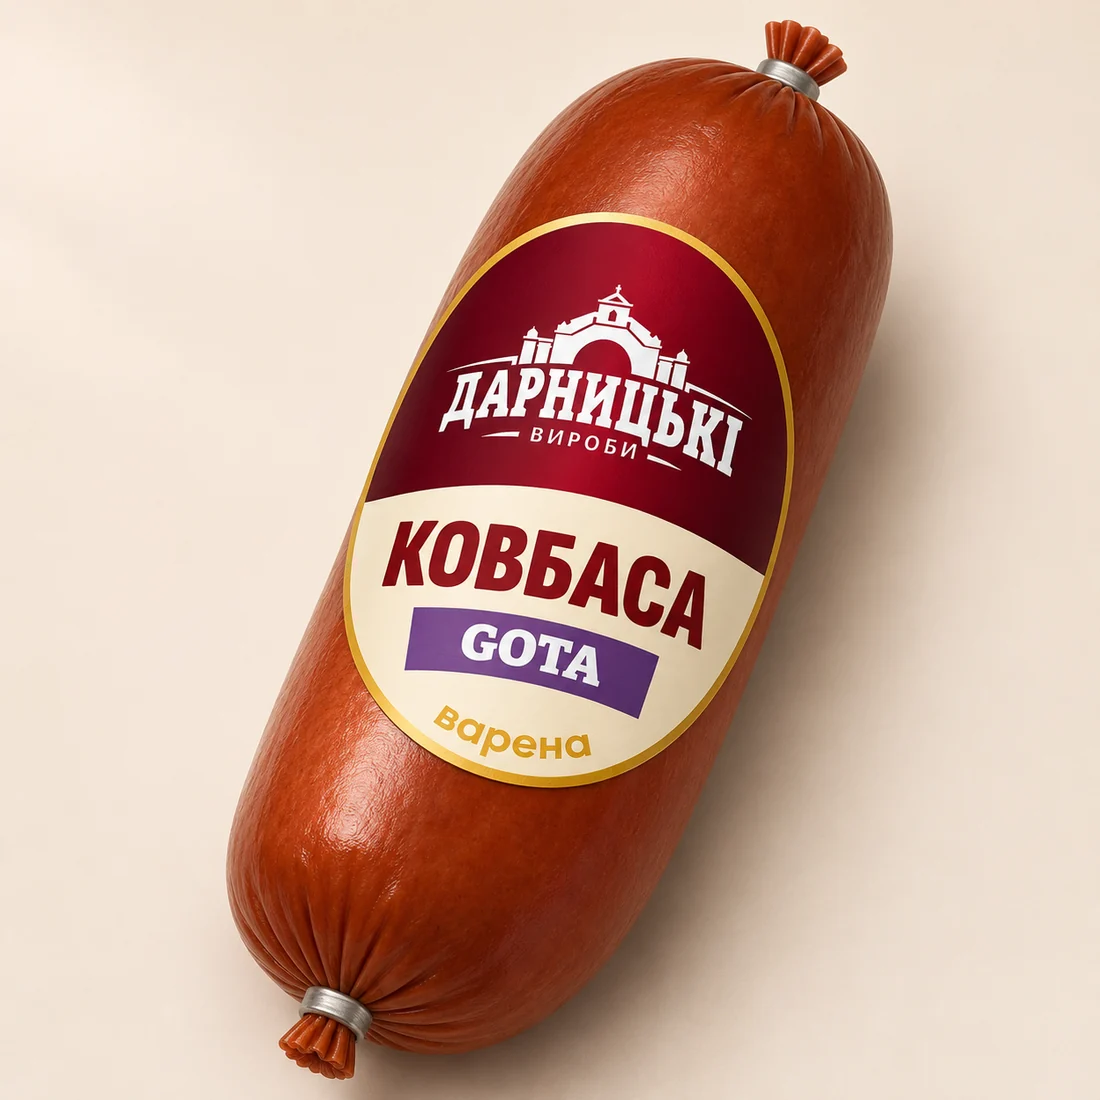
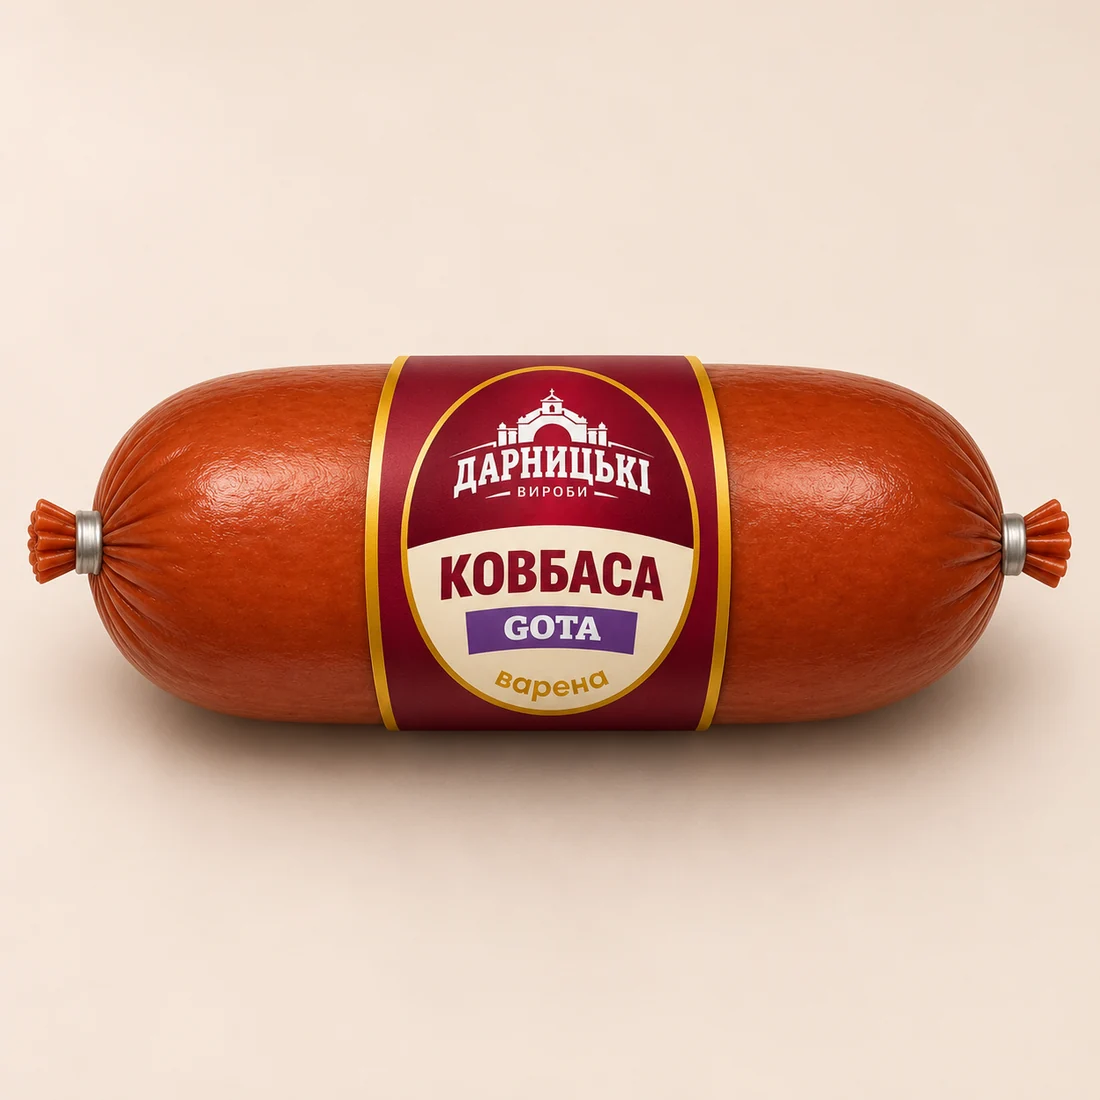
Wrap sausage labels around the girth in packaging and serving images

diff --git a/js/products.js b/js/products.js
@@ -396,7 +396,7 @@
     picture.className = "product-card__image";
     const servingImage = document.createElement("img");
     servingImage.className = "serving-art";
-    servingImage.src = new URL(`assets/products/serving/${product.id}.webp`, siteRoot).href;
+    servingImage.src = new URL(`assets/products/serving/${product.id}.webp?v=wrap-2`, siteRoot).href;
     servingImage.alt = "";
     servingImage.loading = "lazy";
     servingImage.decoding = "async";
@@ -412,7 +412,7 @@
     const servingButton = dualText("button", "view-serving", "На столі", "Na stole");
     const packButton = dualText("button", "view-pack", "У пакованні", "W opakowaniu");
     const setView = showPack => {
-      if (showPack && !pack.hasAttribute("src")) pack.src = new URL(`assets/products/packs/${product.id}.webp`, siteRoot).href;
+      if (showPack && !pack.hasAttribute("src")) pack.src = new URL(`assets/products/packs/${product.id}.webp?v=wrap-2`, siteRoot).href;
       card.classList.toggle("shows-pack", showPack);
       servingButton.setAttribute("aria-pressed", String(!showPack));
       packButton.setAttribute("aria-pressed", String(showPack));

diff --git a/pl/index.html b/pl/index.html
@@ -56,7 +56,7 @@
   </script>
   <script defer src="../js/i18n.js?v=store-journey-1"></script>
   <script defer src="../js/analytics.js?v=store-journey-1"></script>
-  <script defer src="../js/products.js?v=shelf-1"></script>
+  <script defer src="../js/products.js?v=wrap-2"></script>
   <script defer src="../js/stores.js?v=store-journey-1"></script>
   <script defer src="../js/scroll-motion.js?v=store-journey-1"></script>
   <script defer src="../js/main.js?v=store-journey-1"></script>

diff --git a/index.html b/index.html
@@ -56,7 +56,7 @@
   </script>
   <script defer src="js/i18n.js?v=store-journey-1"></script>
   <script defer src="js/analytics.js?v=store-journey-1"></script>
-  <script defer src="js/products.js?v=shelf-1"></script>
+  <script defer src="js/products.js?v=wrap-2"></script>
   <script defer src="js/stores.js?v=store-journey-1"></script>
   <script defer src="js/scroll-motion.js?v=store-journey-1"></script>
   <script defer src="js/main.js?v=store-journey-1"></script>

diff --git a/IMAGE-PROMPTS.md b/IMAGE-PROMPTS.md
@@ -28,7 +28,7 @@ undefined
 - **doktorska** — ДОКТОРСЬКА. one twine-tied chub from photo behind a fan of smooth pink slices, crusty rye, a glossy mustard swoosh, cherry-red enamel rim, bone white table
 - **studentska** — СТУДЕНТСЬКА. street picnic poppyseed roll on crinkled parchment, thick cooked sausage slices visible, pickle coins, a swipe of mustard, bold tomato-red tabletop, chub behind
 - **gota** — GOTA. Gota cooked sausage in elegant thin overlapping slices on a dark plum ceramic plate, purple onion rings, rye crisp, parsley leaf, slant of light
-- **doktorska-premium** — ДОКТОРСЬКА ПРЕМІУМ. one vacuum-packed half sausage with round face label as in source, thin folded pale pink slices on buttered baguette, cornichons, pale sage table
+- **doktorska-premium** — ДОКТОРСЬКА ПРЕМІУМ. a whole sausage in side view with the Premium emblem on its central wraparound band, thin folded pale pink slices on buttered baguette, cornichons, pale sage table
 - **doktorska-extra** — ДОКТОРСЬКА ЕКСТРА. hot skillet toasted sandwich cut on diagonal showing several generous layers of smooth cooked pink sausage, melting cheese, a little grilled tomato, turquoise plate
 - **uszka-wedzone** — КОПЧЕНІ СВИНЯЧІ ВУХА. thin curled strips of amber smoked pigs ears with recognizable thin pale cartilage centers, pickled red onion, mustard dip, crunchy rye baton, copper-colored snack bowl. Clear snack pouch behind
 - **parowki** — СОСИСКИ ДОКТОРСЬКІ. two glossy browned slender frankfurters in a split brioche roll, bright mustard stripe, fresh green relish, sunny golden counter. Behind it a transparent vacuum pack of slender frankfurters wearing provided label
@@ -37,6 +37,6 @@ undefined
 
 ## Catalog packaging, ten products
 
-Generate one square product photograph per catalog ID with the built-in image generator. Use the matching print label from the product record as the artwork reference. Show one whole sealed retail pack on an ivory studio surface, with soft light from the upper left and a contact shadow. Keep the label legible, retain the burgundy gate logo, colors and lettering. Apply rectangular artwork as a sleeve and oval artwork as a die-cut label. Frame the entire pack, with no garnish, additional products, invented weights or certifications.
+Generate one square product photograph per catalog ID with the built-in image generator. Use the matching print label from the product record as the artwork reference. Show one whole sealed retail pack on an ivory studio surface, with soft light from the upper left and a contact shadow. Keep the label legible, retain the burgundy gate logo, colors and lettering. On every cylindrical sausage, wrap a short burgundy band around its middle. Its two gold rims follow the circumference, perpendicular to the long axis. Leave exposed casing on both sides. Keep the variant text upright on the front. Where the artwork is oval, place that emblem on the front of the band. Flat pouches carry the oval label directly. Match the band geometry in both the serving and packaging views. Frame the entire pack, with no garnish, additional products, invented weights or certifications.
 
 For sausages, show an intact cylindrical loaf with gathered crimped ends. For Parówki Doktorskie use a transparent pack of six aligned frankfurters. For the smoked ears use a clear vacuum pouch of curled amber strips. The individual products are identified by their label references in the catalog. Export to `assets/products/packs/<product-id>.webp`.
